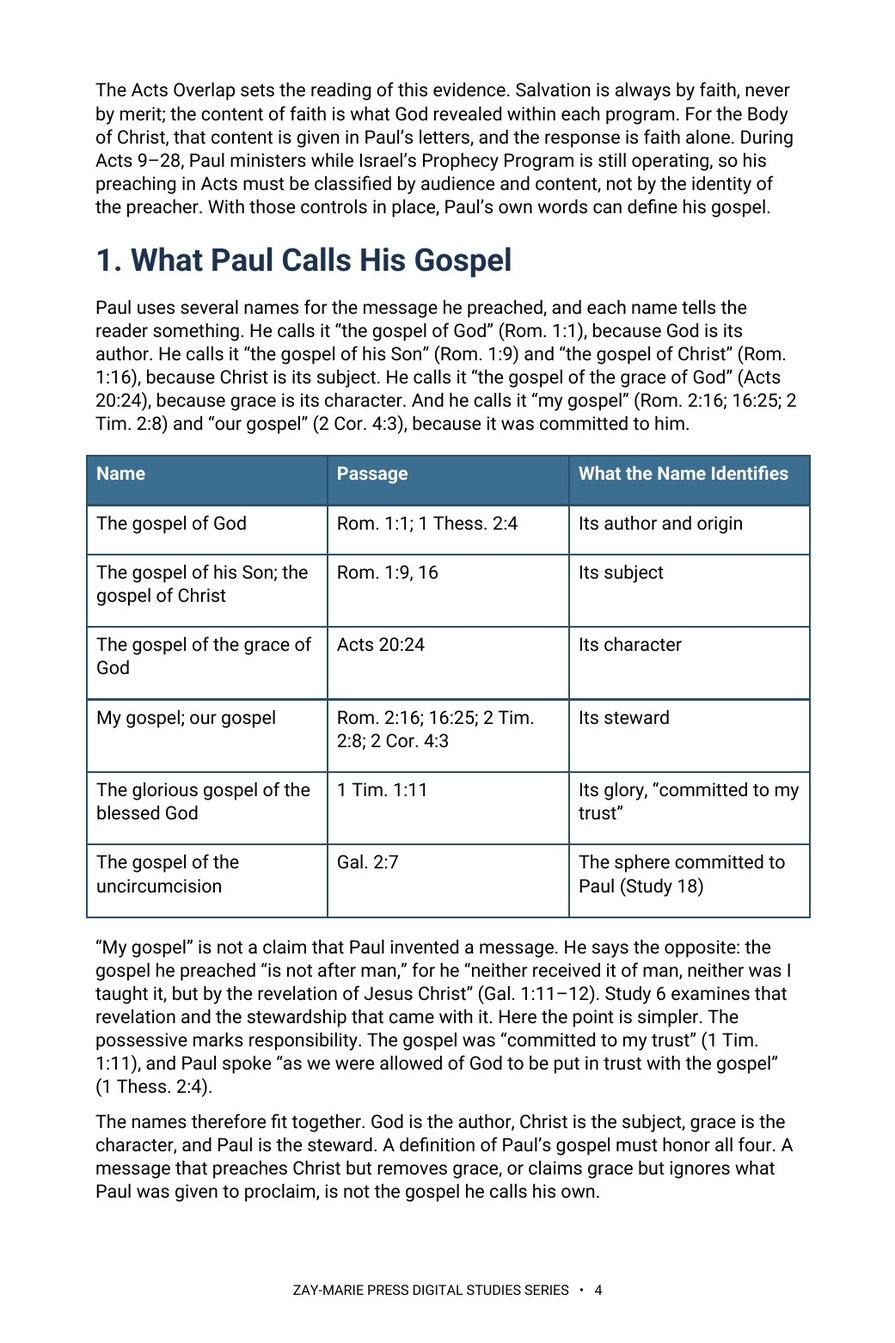
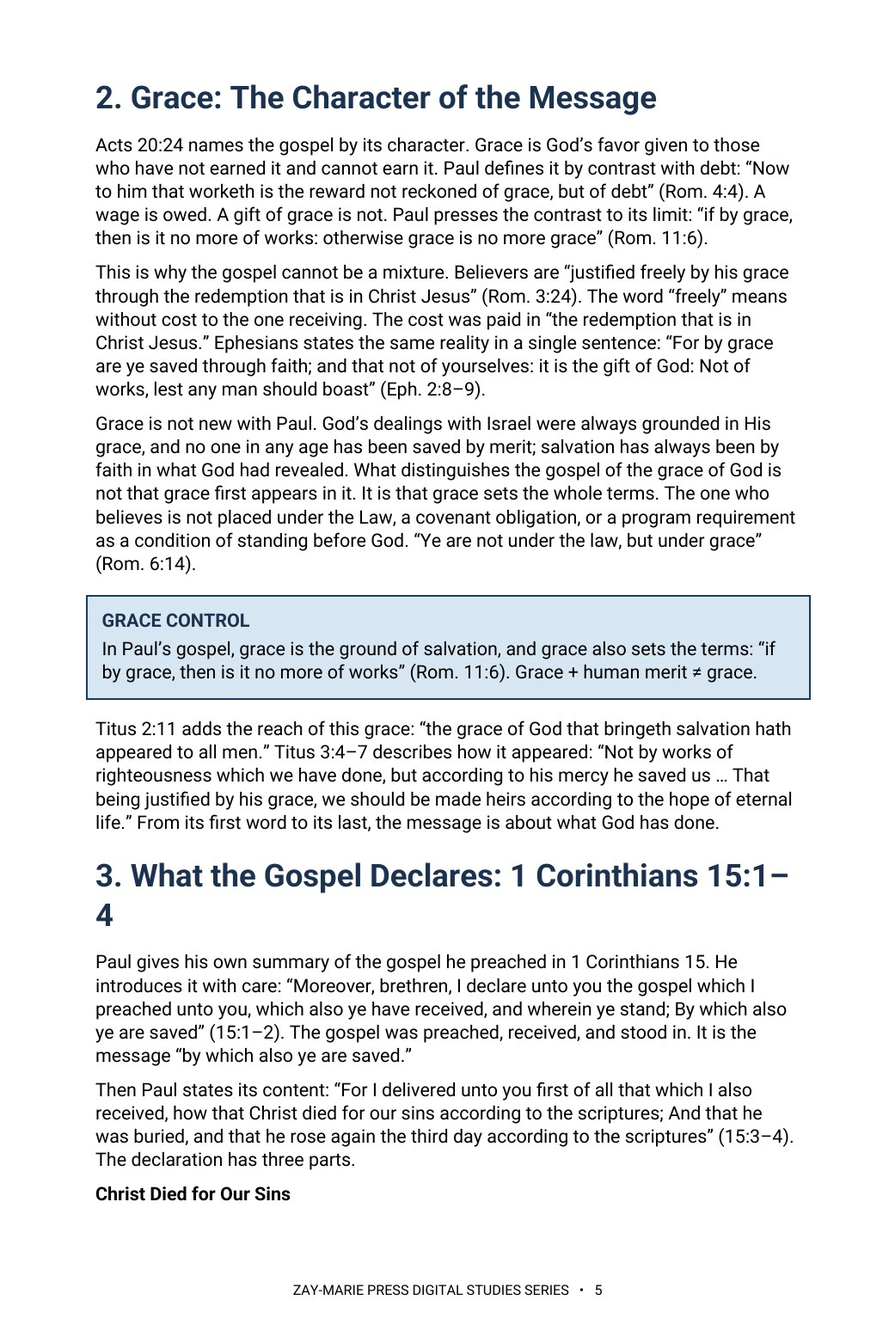
Study 43: 'ground of salvation' wording scoped to Paul's gospel (preview 4 re-rendered); Study 50 page copy; trackers
Claude-Session: https://claude.ai/code/session_01HC7bs9KYP2scp4hCL6DkTp

Changed region(s): [[0.0922, 0.0615, 0.9222, 0.8912]]

diff --git a/study-50-election.html b/study-50-election.html
@@ -1,4 +1,4 @@
 <!doctype html>
 <html lang="en"><head><meta charset="utf-8"><meta name="viewport" content="width=device-width,initial-scale=1"><title>Election | Zay-Marie Press</title><meta name="description" content="Scripture calls Israel “chosen” and tells the Body of Christ it was “chosen . . . before the foundation of the world.” Distinguish Israel's national election from the Body's election in Christ, and avoid merging or over-extending either one. Preview Study 50 from Zay-Marie Press."><link rel="stylesheet" href="styles.css?v=20260921-4"><link rel="icon" type="image/png" href="assets/zay-marie-press-favicon.png"><style>
 .study-detail-page{background:#fff;color:#252525}.detail-hero{background:linear-gradient(135deg,#f8f5ec,#e3ece2);padding:58px 0}.detail-hero-grid{display:grid;grid-template-columns:minmax(250px,.72fr) minmax(0,1.28fr);gap:58px;align-items:center}.detail-cover{max-width:390px;margin:auto}.detail-cover img{display:block;width:100%;height:auto;box-shadow:0 14px 36px rgba(8,45,69,.18)}.detail-hero h1{font-size:clamp(2.7rem,5vw,4.7rem);line-height:1.02;margin:8px 0 10px;color:#143823}.detail-subtitle{font-family:Georgia,serif;font-size:1.35rem;font-weight:700;color:#082d45;margin:0 0 7px}.detail-kicker{font-family:Georgia,serif;font-style:italic;font-size:1.05rem;color:#4a4a44;margin:0 0 22px}.detail-copy{font-size:1.08rem;line-height:1.65;max-width:760px}.detail-buyline{display:flex;align-items:center;gap:18px;flex-wrap:wrap;margin-top:25px}.detail-price{font-family:Georgia,serif;font-size:2rem;font-weight:700;color:#143823}.detail-format,.preview-card .page-no{font-family:Arial,sans-serif;font-size:.76rem;font-weight:700;letter-spacing:.1em;text-transform:uppercase;color:#176b3a}.detail-button{display:inline-block;background:#176b3a;color:#fff;padding:13px 22px;font-family:Arial,sans-serif;font-size:.8rem;font-weight:700;letter-spacing:.07em;text-transform:uppercase}.detail-button.pending{opacity:.72;cursor:default}.detail-section{padding:66px 0}.detail-section.soft{background:#f6f7f2}.detail-section.cream{background:#faf8f2}.detail-section h2{color:#143823;margin:6px 0 18px;font-size:clamp(2rem,3.4vw,3rem)}.detail-section .lead{max-width:920px;font-size:1.1rem;line-height:1.62}.study-distinction{max-width:920px;margin-top:28px;margin-bottom:28px;padding:26px 28px;background:#fff;border:1px solid #d8d1bf;border-left:4px solid #b8871c}.study-distinction h3{margin:0 0 10px;color:#143823}.study-distinction p{margin:0 0 14px;line-height:1.62}.study-distinction a{font-family:Arial,sans-serif;font-weight:700;color:#176b3a;text-decoration:none}.study-points{display:grid;grid-template-columns:repeat(3,1fr);gap:18px;margin-top:28px;margin-bottom:28px}.study-point,.scripture-card,.preview-card,.include-item{background:#fff;border:1px solid var(--line);text-align:left}.study-point{border-top:3px solid #176b3a;padding:22px}.study-point h3{color:#143823;margin:0 0 8px;font-size:1.2rem}.study-point p,.scripture-card p,.preview-card p,.include-item p{margin:0;line-height:1.55}.scripture-grid{display:grid;grid-template-columns:repeat(4,1fr);gap:14px;margin-top:24px;margin-bottom:24px}.scripture-card{padding:22px 20px;color:#143823}.scripture-card h3{margin:0 0 9px;font-family:Georgia,serif;font-size:1rem;line-height:1.35}.scripture-card p{font-size:.94rem;color:#45453f}.excerpt{max-width:900px;margin:28px auto;border-left:4px solid #b8871c;padding:10px 0 10px 28px}.excerpt blockquote{font-family:Georgia,serif;font-size:clamp(1.45rem,2.5vw,2rem);line-height:1.45;color:#143823;margin:0 0 16px}.excerpt p{line-height:1.6;margin:0}.preview-grid{display:grid;grid-template-columns:repeat(3,1fr);gap:20px;margin-top:28px;margin-bottom:28px}.preview-card{padding:18px;min-height:210px;box-shadow:0 7px 20px rgba(20,40,25,.05)}.preview-image-link{display:block;margin:0 0 18px}.preview-image-link img{display:block;width:100%;height:auto;border:1px solid #d8d1bf;box-shadow:0 8px 22px rgba(20,40,25,.1);transition:transform .18s ease,box-shadow .18s ease}.preview-image-link:hover img{transform:translateY(-2px);box-shadow:0 11px 28px rgba(20,40,25,.16)}.preview-card h3{color:#143823;margin:8px 0 10px}.preview-instruction{margin:10px 0 0;font-family:Arial,sans-serif;font-size:.78rem;letter-spacing:.04em;color:#5b5b55}.includes-grid{display:grid;grid-template-columns:repeat(4,1fr);gap:14px;margin-top:26px}.include-item{padding:22px 20px;color:#143823}.include-item h3{margin:0 0 9px;font-family:Arial,sans-serif;font-size:.86rem;line-height:1.35;letter-spacing:.02em}.include-item p{font-size:.94rem;color:#45453f}.final-buy{background:#082d45;color:#fff;border-top:4px solid #b8871c;padding:42px 48px;display:grid;grid-template-columns:1fr auto;gap:36px;align-items:center}.final-buy .eyebrow,.final-buy h2,.final-buy .detail-price{color:#fff}.final-buy h2{margin:7px 0 6px}.final-buy p{margin:0}.final-offer{text-align:center}.back-link{display:inline-block;margin-top:18px;color:#143823;font-family:Arial,sans-serif;font-weight:700;text-decoration:none}.preview-lightbox{position:fixed;inset:0;z-index:10000;display:none;align-items:flex-start;justify-content:center;background:rgba(8,22,16,.88);padding:24px;overflow:auto}.preview-lightbox.open{display:flex}.preview-lightbox img{display:block;width:auto;height:auto;max-width:none;box-shadow:0 18px 55px rgba(0,0,0,.4);background:#fff}.preview-lightbox-close{position:fixed;top:18px;right:24px;z-index:10001;width:46px;height:46px;border:1px solid rgba(255,255,255,.65);border-radius:50%;background:rgba(0,0,0,.55);color:#fff;font:32px/1 Arial,sans-serif;cursor:pointer}@media(max-width:900px){.detail-hero-grid{grid-template-columns:1fr;gap:34px}.detail-cover{max-width:330px}.study-points{grid-template-columns:repeat(2,1fr)}.scripture-grid,.includes-grid{grid-template-columns:repeat(2,1fr)}.preview-grid,.final-buy{grid-template-columns:1fr}.final-offer{text-align:left}}@media(max-width:560px){.detail-hero{padding:42px 0}.detail-section{padding:50px 0}.study-points,.scripture-grid,.includes-grid{grid-template-columns:1fr}.final-buy{padding:32px 24px}.detail-buyline{align-items:flex-start;flex-direction:column;gap:8px}.preview-lightbox{padding:58px 10px 24px}.preview-lightbox img{width:100%;max-width:100%;height:auto}} .detail-hero h1{font-size:clamp(2.1rem,4.2vw,3.7rem);line-height:1.08}</style></head><body class="study-detail-page">
-<header class="site-header"><div class="wrap nav"><a class="logo" href="index.html" aria-label="Zay-Marie Press home"><img src="assets/zay-marie-press-logo-hq.png" alt="Zay-Marie Press" width="420" height="238"></a><button class="menu-toggle" type="button" aria-expanded="false" aria-controls="primary-nav">MENU</button><nav aria-label="Primary navigation" class="primary-nav" id="primary-nav"><a href="index.html">HOME</a><a href="books.html">BOOKS</a><a href="series.html">SERIES</a><a class="active" aria-current="page" href="digital-studies.html">DIGITAL STUDIES</a><a href="biblical-hermeneutics-course.html">COURSE</a><a href="about.html">ABOUT</a><a href="resources.html">RESOURCES</a><a href="contact.html">CONTACT</a></nav></div></header><main><section class="detail-hero"><div class="wrap detail-hero-grid"><div class="detail-cover"><picture><source srcset="assets/study-50-cover.webp" type="image/webp"><img src="assets/study-50-cover.jpg" alt="Election — Study 50 cover"></picture></div><div><div class="eyebrow">STUDY 50 · DIGITAL STUDY</div><h1>Election</h1><p class="detail-subtitle">Israel's National Election and the Body's Election in Christ</p><p class="detail-kicker">A Biblical Examination of Two Distinct Elections Under the Prophecy and Mystery Programs</p><p class="detail-copy">Scripture calls Israel "chosen" (Deuteronomy 7:6), and it tells the Body of Christ that God "hath chosen us in him before the foundation of the world" (Ephesians 1:4). The same English word — and largely the same underlying vocabulary of choosing — describes two different companies, in two different settings, on two different grounds, unto two different destinies. Left unexamined, that single shared word invites two opposite mistakes.</p><p class="detail-copy">This study traces Israel's national election from Deuteronomy 7 through Romans 9–11's corporate argument and Jeremiah 31's guarantee of the nation's future, and the Body's election in Christ from Ephesians 1's "before the foundation of the world" through Romans 8's unbroken chain of divine action. It tests the passage most likely to be misread alongside them — 1 Peter 1:1–2 — and names the two opposite errors a careful reader must avoid on either side.</p><div class="detail-buyline"><span class="detail-price">$5.99</span><span class="detail-format">Digital PDF · 20 Pages</span><span class="detail-button pending" aria-disabled="true">Checkout Coming Soon</span></div></div></div></section><section class="detail-section"><div class="wrap"><div class="eyebrow">ABOUT THIS STUDY</div><h2>Two Distinct Elections, Read on Their Own Terms</h2><p class="lead">Scripture applies its vocabulary of choosing to a nation (Deuteronomy 7:6–8), to a believing remnant within that nation (Romans 11:5), and to the Body of Christ (Ephesians 1:4). The word itself only ever tells the reader that a choice has been made — it does not say who was chosen, on what basis, at what point, or unto what destiny. Those four questions must be answered from each passage's own setting. Asked consistently, they keep Israel's national election and the Body's election in Christ distinct without denying that both are, in the fullest sense, God's own sovereign elections.</p><p class="lead">This is not a general study of Israel's remnant, which Study 9 traces in its own right, nor of the judicial suspension that presently governs Israel's corporate unbelief, which Study 21 examines fully, nor of the broad Israel–Body distinction itself, which Study 4 establishes across every point of contrast. Its task is narrower: to ask, of every election passage in view, who is the object of the choice, on what basis, at what point, and unto what end — and to test that method against the one passage most likely to blur the two elections together, 1 Peter 1:1–2.</p><div class="study-distinction"><h3>How These Studies Relate</h3><p>Study 50 traces the two elections Scripture names — Israel's national election and the Body's election in Christ — and the discipline that keeps a shared word from becoming a shared doctrine.</p><p><a href="study-09-the-remnant.html">Study 9 — The Remnant</a> Compare the corporate, national election traced here with the narrower "election of grace" this study locates within it — an individual outworking, not a separate election.</p><p><a href="study-21-israels-judicial-blinding.html">Study 21 — Israel's Judicial Blinding</a> See the national judicial suspension examined in full — the present, corporate condition this study calls on to show why Israel's unbelief never revokes her ongoing election.</p><p><a href="study-04-israel-and-the-body-of-christ.html">Study 4 — Israel and the Body of Christ</a> Read the broad Israel–Body distinction in origin, covenant, and destiny that this study's narrower question about election depends on throughout.</p><p class="connection-guide-link"><a href="study-connections.html#study-50">Explore the full connection guide for Study 50 →</a></p></div><div class="eyebrow">WHAT YOU'LL STUDY</div><h2>Trace the Object, the Basis, and the Destiny of Each Election</h2><div class="study-points"><div class="study-point"><h3>The Four Questions</h3><p>Learn the four questions — object, basis, point of choice and destiny — this study puts to every election passage, and test why a shared word does not by itself settle which choice a passage describes.</p></div><div class="study-point"><h3>Reading Deuteronomy 7 and Romans 9–11</h3><p>Trace the reason Deuteronomy 7:6–8 gives for Israel's choice, how Romans 9:6–13 uses Isaac and Jacob, and what Paul says about gifts and calling in Romans 11:28–29.</p></div><div class="study-point"><h3>The “Election of Grace”</h3><p>Follow the phrase in Romans 11:1–7, noting what verse 6 says about works and grace, and test how it relates to the passages on the nation.</p></div><div class="study-point"><h3>Ephesians 1 on Its Own Terms</h3><p>Read Ephesians 1:3–6 and 1:11–12 for where, when and in whom the choice is placed, and note which words the text uses of descent, covenant and inheritance.</p></div><div class="study-point"><h3>Comparing the Passages</h3><p>Set the passages side by side on object, basis, point of choice and destiny, marking where the text states the same ground (Deuteronomy 7:7; Ephesians 2:8–9) and where it does not.</p></div><div class="study-point"><h3>The Discipline of Audience</h3><p>Read 1 Peter 1:1–2 from its own address, and weigh what Romans 9–11 was written to answer before pressing it into a wider debate.</p></div></div><div class="eyebrow">KEY SCRIPTURES</div><h2>Examine the Passages for Yourself</h2><div class="scripture-grid"><div class="scripture-card"><h3>Deuteronomy 7:6–8</h3><p>Israel chosen not for size or merit, but for God's own love and His oath to the fathers.</p></div><div class="scripture-card"><h3>Romans 9:6–13</h3><p>Isaac and Jacob, and the question Paul is answering in the chapter's opening verses.</p></div><div class="scripture-card"><h3>Romans 11:28–29</h3><p>Beloved for the fathers' sakes — the gifts and calling of God are without repentance.</p></div><div class="scripture-card"><h3>Ephesians 1:3–6</h3><p>Chosen in Him before the foundation of the world — read who is “us,” and where and when the choice is placed.</p></div><div class="scripture-card"><h3>Ephesians 1:11–12</h3><p>Predestinated according to His purpose, obtained by those who first trusted in Christ.</p></div><div class="scripture-card"><h3>Romans 8:28–30</h3><p>The unbroken chain from foreknowledge to glory — every verb belongs to God.</p></div><div class="scripture-card"><h3>2 Thessalonians 2:13–14</h3><p>Chosen to salvation through belief of the truth, called by the gospel Paul preaches.</p></div><div class="scripture-card"><h3>1 Peter 1:1–2</h3><p>"Elect according to foreknowledge" — read the letter's own address, “strangers scattered,” before deciding what the word names.</p></div></div><div class="eyebrow">FROM THE STUDY</div><h2>The Word Is Not the Test</h2><div class="excerpt"><blockquote>"According as he hath chosen us in him before the foundation of the world, that we should be holy and without blame before him in love" (Ephesians 1:4).</blockquote><p>Paul locates this election "in him," before time began — not in a family, not in a nation, not in a covenant sworn within history. Israel's own election, sworn to Abraham's line, is no less real for being different; it is simply not this one. The single word "chosen" is not the test. Where, when, and unto what a choice was made — asked of each passage on its own terms — is.</p></div><div class="eyebrow">A LOOK INSIDE</div><h2>Preview the Study Before You Purchase</h2><p class="preview-instruction">Click any page to enlarge it for reading.</p><div class="preview-grid"><div class="preview-card"><a class="preview-image-link" data-preview-lightbox href="assets/study-50-page-2.jpg"><img src="assets/study-50-page-2.jpg" alt="Study 50 table of contents"></a><div class="page-no">Page 2</div><h3>Table of Contents</h3><p>See the study's full structure and scope at a glance.</p></div><div class="preview-card"><a class="preview-image-link" data-preview-lightbox href="assets/study-50-page-3.jpg"><img src="assets/study-50-page-3.jpg" alt="Study 50 page 3: what you will learn, study goal, and study outline"></a><div class="page-no">Page 3</div><h3>What You Will Learn</h3><p>See the study's goal, outline, and the question it sets out to answer.</p></div><div class="preview-card"><a class="preview-image-link" data-preview-lightbox href="assets/study-50-page-5.jpg"><img src="assets/study-50-page-5.jpg" alt="Study 50 page 5: Deuteronomy 7 and Romans 9 in KJV wording, with commentary"></a><div class="page-no">Page 5</div><h3>Deuteronomy 7 and Romans 9</h3><p>Read the KJV text of Deuteronomy 7:6–8 beside the study's commentary on Romans 9:6–13.</p></div></div><div class="eyebrow">WHAT'S INCLUDED</div><h2>A Focused Study Built for<br>Understanding and Teaching</h2><div class="includes-grid"><div class="include-item"><h3>19-Page In-Depth Biblical Study</h3><p>A careful study of Israel's national election and the Body's election in Christ, grounded in Deuteronomy, Romans, Ephesians, and 1 Peter.</p></div><div class="include-item"><h3>6 Core Teaching Sections</h3><p>Progress from the shared vocabulary of choosing through both elections to the two opposite errors a careful reader must avoid.</p></div><div class="include-item"><h3>Key Distinctions to Retain</h3><p>Keep the object, basis, covenant status, and destiny of each election clear.</p></div><div class="include-item"><h3>Review and Discussion Questions</h3><p>Test the study's distinctions concerning basis, timing, and destiny.</p></div><div class="include-item"><h3>Teaching Outline</h3><p>A structured framework for teaching both elections with precision.</p></div><div class="include-item"><h3>Guided Further Study</h3><p>Return to Israel's election, the Body's election, and the discipline of audience, each traced further with directed questions.</p></div><div class="include-item"><h3>Scripture-Tracing Exercise</h3><p>Trace the study's key passages across the Law, the Prophets, the Gospels, and Paul's letters in their own context.</p></div><div class="include-item"><h3>Final Synthesis Exercise</h3><p>Bring the evidence together in one coherent, Scripture-based explanation.</p></div></div><div class="final-buy"><div><div class="eyebrow">STUDY 50 · DIGITAL STUDY</div><h2>Election</h2><p>20-page digital PDF · For personal use</p></div><div class="final-offer"><div class="detail-price">$5.99</div><span class="detail-button pending" aria-disabled="true">Checkout Coming Soon</span></div></div><a class="back-link" href="digital-studies.html">← Back to All Digital Studies</a></div></section><section class="study-method-course-bridge"><div class="wrap"><div class="study-method-course-panel"><div><div class="eyebrow">BUILD THE INTERPRETIVE METHOD</div><h2>Want More Than a Focused Study?</h2><p>Digital Studies examine particular biblical subjects and difficult passages. The 40-lesson Biblical Hermeneutics course teaches a complete, repeatable method for establishing meaning in context, determining proper assignment, and making responsible application.</p></div><a class="btn btn-primary" href="biblical-hermeneutics-course.html">BIBLICAL HERMENEUTICS COURSE</a></div></div></section></main><div class="preview-lightbox" id="preview-lightbox" role="dialog" aria-modal="true" aria-label="Expanded study preview"><button class="preview-lightbox-close" type="button" aria-label="Close preview">×</button><img id="preview-lightbox-image" alt=""></div><footer class="site-footer"><div class="wrap footer-grid"><div class="footer-about"><h3>Zay-Marie Press</h3><p class="footer-tagline"><em>Where the Bible Means What It Says.</em></p><p>Zay-Marie Press is a Christian theological publisher dedicated to producing doctrinally precise, carefully structured biblical resources that equip pastors, teachers, and serious students with clarity, depth, and Scripture-anchored truth.</p><p><a href="https://zaymariepress.com">zaymariepress.com</a><br><a href="mailto:info@zaymariepress.com">info@zaymariepress.com</a></p></div><div class="footer-column"><h3>Explore</h3><div class="footer-links-stacked"><a href="books.html">Books</a><br><a href="series.html">Series</a><br><a href="biblical-hermeneutics-course.html">Course</a><br><a href="digital-studies.html">Digital Studies</a><br><a href="resources.html">Resources</a><br><a href="bible-book-summaries.html">Bible Book Summaries</a><br><a href="doctrinal-packets.html">Doctrinal Packets</a><br><a href="historical-drift.html">Historical Drift</a><br><a href="about.html">About</a><br><a href="contact.html">Contact</a></div></div><div class="footer-column"><h3>Reader Support</h3><div class="footer-links-stacked"><a href="reader-support.html#faq">FAQ</a><br><a href="reader-support.html#shipping-returns">Shipping &amp; Returns</a><br><a href="reader-support.html#digital-downloads">Digital Downloads</a><br><a href="reader-support.html#contact-support">Contact Support</a></div></div><div class="footer-column"><h3>Acts Overlap</h3><p><strong>Acts Overlap Theology Series</strong></p><p><em>Two Distinct Streams. One Overlap.</em></p><p><a href="series.html">Series Overview</a></p></div></div><div class="wrap footer-bottom">© 2026 Zay-Marie Press. All rights reserved.</div></footer><script src="site.js"></script><script>const lightbox=document.getElementById('preview-lightbox'),lightboxImage=document.getElementById('preview-lightbox-image'),closeLightbox=()=>{lightbox.classList.remove('open');lightboxImage.src='';};document.querySelectorAll('[data-preview-lightbox]').forEach(link=>link.addEventListener('click',event=>{event.preventDefault();lightboxImage.src=link.href;lightboxImage.alt=link.querySelector('img').alt;lightbox.classList.add('open');}));document.querySelector('.preview-lightbox-close').addEventListener('click',closeLightbox);lightbox.addEventListener('click',event=>{if(event.target===lightbox)closeLightbox();});document.addEventListener('keydown',event=>{if(event.key==='Escape')closeLightbox();});</script></body></html>
+<header class="site-header"><div class="wrap nav"><a class="logo" href="index.html" aria-label="Zay-Marie Press home"><img src="assets/zay-marie-press-logo-hq.png" alt="Zay-Marie Press" width="420" height="238"></a><button class="menu-toggle" type="button" aria-expanded="false" aria-controls="primary-nav">MENU</button><nav aria-label="Primary navigation" class="primary-nav" id="primary-nav"><a href="index.html">HOME</a><a href="books.html">BOOKS</a><a href="series.html">SERIES</a><a class="active" aria-current="page" href="digital-studies.html">DIGITAL STUDIES</a><a href="biblical-hermeneutics-course.html">COURSE</a><a href="about.html">ABOUT</a><a href="resources.html">RESOURCES</a><a href="contact.html">CONTACT</a></nav></div></header><main><section class="detail-hero"><div class="wrap detail-hero-grid"><div class="detail-cover"><picture><source srcset="assets/study-50-cover.webp" type="image/webp"><img src="assets/study-50-cover.jpg" alt="Election — Study 50 cover"></picture></div><div><div class="eyebrow">STUDY 50 · DIGITAL STUDY</div><h1>Election</h1><p class="detail-subtitle">Israel's National Election and the Body's Election in Christ</p><p class="detail-kicker">A Biblical Examination of Two Distinct Elections Under the Prophecy and Mystery Programs</p><p class="detail-copy">Scripture calls Israel "chosen" (Deuteronomy 7:6), and it tells the Body of Christ that God "hath chosen us in him before the foundation of the world" (Ephesians 1:4). The same English word — and largely the same underlying vocabulary of choosing — describes two different companies, in two different settings, on two different grounds, unto two different destinies. Left unexamined, that single shared word invites two opposite mistakes.</p><p class="detail-copy">This study traces Israel's national election from Deuteronomy 7 through Romans 9–11's corporate argument and Jeremiah 31's guarantee of the nation's future, and the Body's election in Christ from Ephesians 1's "before the foundation of the world" through Romans 8's unbroken chain of divine action. It tests the passage most likely to be misread alongside them — 1 Peter 1:1–2 — and names the two opposite errors a careful reader must avoid on either side.</p><div class="detail-buyline"><span class="detail-price">$5.99</span><span class="detail-format">Digital PDF · 20 Pages</span><span class="detail-button pending" aria-disabled="true">Checkout Coming Soon</span></div></div></div></section><section class="detail-section"><div class="wrap"><div class="eyebrow">ABOUT THIS STUDY</div><h2>Two Distinct Elections, Read on Their Own Terms</h2><p class="lead">Scripture applies its vocabulary of choosing to a nation (Deuteronomy 7:6–8), to a believing remnant within that nation (Romans 11:5), and to the Body of Christ (Ephesians 1:4). The word itself only ever tells the reader that a choice has been made — it does not say who was chosen, on what basis, at what point, or unto what destiny. Those four questions must be answered from each passage's own setting. Asked consistently, they keep Israel's national election and the Body's election in Christ distinct without denying that both are, in the fullest sense, God's own sovereign elections.</p><p class="lead">This is not a general study of Israel's remnant, which Study 9 traces in its own right, nor of the judicial suspension that presently governs Israel's corporate unbelief, which Study 21 examines fully, nor of the broad Israel–Body distinction itself, which Study 4 establishes across every point of contrast. Its task is narrower: to ask, of every election passage in view, who is the object of the choice, on what basis, at what point, and unto what end — and to test that method against the one passage most likely to blur the two elections together, 1 Peter 1:1–2.</p><div class="study-distinction"><h3>How These Studies Relate</h3><p>Study 50 traces the two elections Scripture names — Israel's national election and the Body's election in Christ — and the discipline that keeps a shared word from becoming a shared doctrine.</p><p><a href="study-09-the-remnant.html">Study 9 — The Remnant</a> Compare the corporate, national election traced here with the narrower "election of grace" this study locates within it — an individual outworking, not a separate election.</p><p><a href="study-21-israels-judicial-blinding.html">Study 21 — Israel's Judicial Blinding</a> See the national judicial suspension examined in full — the present, corporate condition this study calls on to show why Israel's unbelief never revokes her ongoing election.</p><p><a href="study-04-israel-and-the-body-of-christ.html">Study 4 — Israel and the Body of Christ</a> Read the broad Israel–Body distinction in origin, covenant, and destiny that this study's narrower question about election depends on throughout.</p><p class="connection-guide-link"><a href="study-connections.html#study-50">Explore the full connection guide for Study 50 →</a></p></div><div class="eyebrow">WHAT YOU'LL STUDY</div><h2>Trace the Object, the Basis, and the Destiny of Each Election</h2><div class="study-points"><div class="study-point"><h3>The Four Questions</h3><p>Learn the four questions — object, basis, point of choice and destiny — this study puts to every election passage, and test why a shared word does not by itself settle which choice a passage describes.</p></div><div class="study-point"><h3>Reading Deuteronomy 7 and Romans 9–11</h3><p>Trace the reason Deuteronomy 7:6–8 gives for Israel's choice, how Romans 9:6–13 uses Isaac and Jacob, and what Paul says about gifts and calling in Romans 11:28–29.</p></div><div class="study-point"><h3>The “Election of Grace”</h3><p>Follow the phrase in Romans 11:1–7, noting what verse 6 says about works and grace, and test how it relates to the passages on the nation.</p></div><div class="study-point"><h3>Ephesians 1 on Its Own Terms</h3><p>Read Ephesians 1:3–6 and 1:11–12 for where, when and in whom the choice is placed, and note which words the text uses of descent, covenant and inheritance.</p></div><div class="study-point"><h3>Comparing the Passages</h3><p>Set the passages side by side on object, basis, point of choice and destiny, marking where the text names the basis of God’s choice (Deuteronomy 7:7; Ephesians 2:8–9) and where the passages differ.</p></div><div class="study-point"><h3>The Discipline of Audience</h3><p>Read 1 Peter 1:1–2 from its own address, and weigh what Romans 9–11 was written to answer before pressing it into a wider debate.</p></div></div><div class="eyebrow">KEY SCRIPTURES</div><h2>Examine the Passages for Yourself</h2><div class="scripture-grid"><div class="scripture-card"><h3>Deuteronomy 7:6–8</h3><p>Israel chosen not for size or merit, but for God's own love and His oath to the fathers.</p></div><div class="scripture-card"><h3>Romans 9:6–13</h3><p>Isaac and Jacob, and the question Paul is answering in the chapter's opening verses.</p></div><div class="scripture-card"><h3>Romans 11:28–29</h3><p>Beloved for the fathers' sakes — the gifts and calling of God are without repentance.</p></div><div class="scripture-card"><h3>Ephesians 1:3–6</h3><p>Chosen in Him before the foundation of the world — read who is “us,” and where and when the choice is placed.</p></div><div class="scripture-card"><h3>Ephesians 1:11–12</h3><p>Predestinated according to His purpose, obtained by those who first trusted in Christ.</p></div><div class="scripture-card"><h3>Romans 8:28–30</h3><p>The unbroken chain from foreknowledge to glory — every verb belongs to God.</p></div><div class="scripture-card"><h3>2 Thessalonians 2:13–14</h3><p>Chosen to salvation through belief of the truth, called by the gospel Paul preaches.</p></div><div class="scripture-card"><h3>1 Peter 1:1–2</h3><p>"Elect according to foreknowledge" — read the letter's own address, “strangers scattered,” before deciding what the word names.</p></div></div><div class="eyebrow">FROM THE STUDY</div><h2>The Word Is Not the Test</h2><div class="excerpt"><blockquote>"According as he hath chosen us in him before the foundation of the world, that we should be holy and without blame before him in love" (Ephesians 1:4).</blockquote><p>Paul locates this election "in him," before time began — not in a family, not in a nation, not in a covenant sworn within history. Israel's own election, sworn to Abraham's line, is no less real for being different; it is simply not this one. The single word "chosen" is not the test. Where, when, and unto what a choice was made — asked of each passage on its own terms — is.</p></div><div class="eyebrow">A LOOK INSIDE</div><h2>Preview the Study Before You Purchase</h2><p class="preview-instruction">Click any page to enlarge it for reading.</p><div class="preview-grid"><div class="preview-card"><a class="preview-image-link" data-preview-lightbox href="assets/study-50-page-2.jpg"><img src="assets/study-50-page-2.jpg" alt="Study 50 table of contents"></a><div class="page-no">Page 2</div><h3>Table of Contents</h3><p>See the study's full structure and scope at a glance.</p></div><div class="preview-card"><a class="preview-image-link" data-preview-lightbox href="assets/study-50-page-3.jpg"><img src="assets/study-50-page-3.jpg" alt="Study 50 page 3: what you will learn, study goal, and study outline"></a><div class="page-no">Page 3</div><h3>What You Will Learn</h3><p>See the study's goal, outline, and the question it sets out to answer.</p></div><div class="preview-card"><a class="preview-image-link" data-preview-lightbox href="assets/study-50-page-5.jpg"><img src="assets/study-50-page-5.jpg" alt="Study 50 page 5: Deuteronomy 7 and Romans 9 in KJV wording, with commentary"></a><div class="page-no">Page 5</div><h3>Deuteronomy 7 and Romans 9</h3><p>Read the KJV text of Deuteronomy 7:6–8 beside the study's commentary on Romans 9:6–13.</p></div></div><div class="eyebrow">WHAT'S INCLUDED</div><h2>A Focused Study Built for<br>Understanding and Teaching</h2><div class="includes-grid"><div class="include-item"><h3>19-Page In-Depth Biblical Study</h3><p>A careful study of Israel's national election and the Body's election in Christ, grounded in Deuteronomy, Romans, Ephesians, and 1 Peter.</p></div><div class="include-item"><h3>6 Core Teaching Sections</h3><p>Progress from the shared vocabulary of choosing through both elections to the two opposite errors a careful reader must avoid.</p></div><div class="include-item"><h3>Key Distinctions to Retain</h3><p>Keep the object, basis, covenant status, and destiny of each election clear.</p></div><div class="include-item"><h3>Review and Discussion Questions</h3><p>Test the study's distinctions concerning basis, timing, and destiny.</p></div><div class="include-item"><h3>Teaching Outline</h3><p>A structured framework for teaching both elections with precision.</p></div><div class="include-item"><h3>Guided Further Study</h3><p>Return to Israel's election, the Body's election, and the discipline of audience, each traced further with directed questions.</p></div><div class="include-item"><h3>Scripture-Tracing Exercise</h3><p>Trace the study's key passages across the Law, the Prophets, the Gospels, and Paul's letters in their own context.</p></div><div class="include-item"><h3>Final Synthesis Exercise</h3><p>Bring the evidence together in one coherent, Scripture-based explanation.</p></div></div><div class="final-buy"><div><div class="eyebrow">STUDY 50 · DIGITAL STUDY</div><h2>Election</h2><p>20-page digital PDF · For personal use</p></div><div class="final-offer"><div class="detail-price">$5.99</div><span class="detail-button pending" aria-disabled="true">Checkout Coming Soon</span></div></div><a class="back-link" href="digital-studies.html">← Back to All Digital Studies</a></div></section><section class="study-method-course-bridge"><div class="wrap"><div class="study-method-course-panel"><div><div class="eyebrow">BUILD THE INTERPRETIVE METHOD</div><h2>Want More Than a Focused Study?</h2><p>Digital Studies examine particular biblical subjects and difficult passages. The 40-lesson Biblical Hermeneutics course teaches a complete, repeatable method for establishing meaning in context, determining proper assignment, and making responsible application.</p></div><a class="btn btn-primary" href="biblical-hermeneutics-course.html">BIBLICAL HERMENEUTICS COURSE</a></div></div></section></main><div class="preview-lightbox" id="preview-lightbox" role="dialog" aria-modal="true" aria-label="Expanded study preview"><button class="preview-lightbox-close" type="button" aria-label="Close preview">×</button><img id="preview-lightbox-image" alt=""></div><footer class="site-footer"><div class="wrap footer-grid"><div class="footer-about"><h3>Zay-Marie Press</h3><p class="footer-tagline"><em>Where the Bible Means What It Says.</em></p><p>Zay-Marie Press is a Christian theological publisher dedicated to producing doctrinally precise, carefully structured biblical resources that equip pastors, teachers, and serious students with clarity, depth, and Scripture-anchored truth.</p><p><a href="https://zaymariepress.com">zaymariepress.com</a><br><a href="mailto:info@zaymariepress.com">info@zaymariepress.com</a></p></div><div class="footer-column"><h3>Explore</h3><div class="footer-links-stacked"><a href="books.html">Books</a><br><a href="series.html">Series</a><br><a href="biblical-hermeneutics-course.html">Course</a><br><a href="digital-studies.html">Digital Studies</a><br><a href="resources.html">Resources</a><br><a href="bible-book-summaries.html">Bible Book Summaries</a><br><a href="doctrinal-packets.html">Doctrinal Packets</a><br><a href="historical-drift.html">Historical Drift</a><br><a href="about.html">About</a><br><a href="contact.html">Contact</a></div></div><div class="footer-column"><h3>Reader Support</h3><div class="footer-links-stacked"><a href="reader-support.html#faq">FAQ</a><br><a href="reader-support.html#shipping-returns">Shipping &amp; Returns</a><br><a href="reader-support.html#digital-downloads">Digital Downloads</a><br><a href="reader-support.html#contact-support">Contact Support</a></div></div><div class="footer-column"><h3>Acts Overlap</h3><p><strong>Acts Overlap Theology Series</strong></p><p><em>Two Distinct Streams. One Overlap.</em></p><p><a href="series.html">Series Overview</a></p></div></div><div class="wrap footer-bottom">© 2026 Zay-Marie Press. All rights reserved.</div></footer><script src="site.js"></script><script>const lightbox=document.getElementById('preview-lightbox'),lightboxImage=document.getElementById('preview-lightbox-image'),closeLightbox=()=>{lightbox.classList.remove('open');lightboxImage.src='';};document.querySelectorAll('[data-preview-lightbox]').forEach(link=>link.addEventListener('click',event=>{event.preventDefault();lightboxImage.src=link.href;lightboxImage.alt=link.querySelector('img').alt;lightbox.classList.add('open');}));document.querySelector('.preview-lightbox-close').addEventListener('click',closeLightbox);lightbox.addEventListener('click',event=>{if(event.target===lightbox)closeLightbox();});document.addEventListener('keydown',event=>{if(event.key==='Escape')closeLightbox();});</script></body></html>

diff --git a/build-tools/studies/b43/ed43.py b/build-tools/studies/b43/ed43.py
@@ -5,4 +5,6 @@ def apply(els):
     rep(els,'When Israel reached its national judicial suspension at Acts 28, Paul declared','When Israel’s Prophecy Program was nationally suspended at Acts 28, Paul declared')
     rep(els,'That was national judicial suspension, not abolition and not a transfer; Israel’s promises stand.','That national suspension was not a cancellation, a transfer or an absorption. '+BND)
     rep(els,'That was a local turn, not Israel’s national judicial suspension;','That was a local turn, not the national suspension of Israel’s program;')
+    rep(els,'Grace is always the ground of salvation. In Paul’s gospel, grace also sets the terms:','In Paul’s gospel, grace is the ground of salvation, and grace also sets the terms:')
+    rep(els,' Grace is always the ground of salvation; in Paul’s gospel grace also sets the terms,',' In Paul’s gospel grace is the ground of salvation and also sets the terms,')
     return els

diff --git a/CLAUDE.md b/CLAUDE.md
@@ -26,7 +26,7 @@ These are kept in the repo at `controlling-documents/` and are the current versi
 - **`build-tools/`** — the study rebuild toolkit (scripts, per-study edit files, README), committed 2026-10-04 at the publisher's approval so the retrofit method and every per-study wording edit survive a session reset. Working tools only; the site does not use them. Not a rule.
 **`controlling-documents/Digital_Studies_Relationship_Map_v1.39.md`** — records each study's distinct subject, its related studies, the eight priced six-study collections, the Paul's Missionary Journeys cross-reference map, and the five primary catalog categories (currently version 1.39, covers Studies 1–71; update it as new studies publish, bump the version number, rename the file to match, and log the change in its own version-history table — mirroring the Master Standard's `_vX.Y` filename convention). Check a proposed topic against it before recommending or writing a new study. (2026-09-28: the file was missing from this repo despite this note referencing it; replaced from the publisher's copy and bumped v1.15→v1.25 in the same pass. If this note ever again points to a version not present under `controlling-documents/`, ask the publisher for a copy rather than proceeding without the check.)
 - **`controlling-documents/Digital_Studies_Category_Standard_v1.1.md`** — FINAL and binding (publisher, 2026-10-01): the rules for the five primary catalog categories (Foundations, Israel & Prophecy, Body of Christ, Passages, Doctrinal Themes), the ordered decision procedure for new studies, the precedents, all 71 fixed assignments, and the cover-label form for each category. Read it before placing any card or cover label. Do not ask the publisher where a study belongs; apply the procedure and state the result. Only the publisher changes a ruling; then bump this Standard's version and filename, re-letter the cover, and update the Relationship Map.
-- **`controlling-documents/Doctrinal_Upgrade_Retrofit_Plan_v1.151.md`** — working tracker for retrofitting Studies 1–59 to the 2026-10-02 doctrinal upgrade (Framework/PAM v1.1, Master Standard v1.40, Rules 7–17): withdrawn-wording search keys, impact tiers, waves and the per-study method. Read it before continuing the retrofit in any session; update status, bump the version and rename the file as work proceeds.
+- **`controlling-documents/Doctrinal_Upgrade_Retrofit_Plan_v1.152.md`** — working tracker for retrofitting Studies 1–59 to the 2026-10-02 doctrinal upgrade (Framework/PAM v1.1, Master Standard v1.40, Rules 7–17): withdrawn-wording search keys, impact tiers, waves and the per-study method. Read it before continuing the retrofit in any session; update status, bump the version and rename the file as work proceeds.
 - **`controlling-documents/Doctrinal_Packet_Standard_v0.3.md`** — Doctrinal Packet Standard (DRAFT; §7 approved). Governs the separate Doctrinal Packets product strand (5-page interpretive PDFs per Bible book — a print-friendly cover as page 1 plus 4 content pages, $2.99, KJV, pilot: Genesis, live at `packet-genesis.html`, hub `doctrinal-packets.html`; site pages say "5 Pages", cover styles live in `packets.css`, Old Testament blue and New Testament soft pale green, hub listed in Bible order). **Preview rule (publisher directive, 2026-09-29, packets only):** previews show about one page's worth in two cropped views (top of page 1 through the anchor texts; the chart section) — never the exegesis, architecture, Mystery contrast, logic chain, outline, or closing. Master Standard §16/§17 still govern Digital Studies. Bump the version and rename the file as the Standard is finalized.
 - **`controlling-documents/Preview_Page_Spoiler_Retrofit_Audit_v1.4.md`** — working tracker for the Studies 1–60 preview-page conclusion-spoiler retrofit (see the section below). Read it before continuing that audit in any session; update its status fields and changelog, bump the version, and rename the file to match as the audit proceeds — same `_vX.Y` convention as the other controlling documents. As of v1.1, the website-side half was DONE: all 60 studies' "What You'll Study" text was judged against the rule (methodology documented in the file) and 22 points across 11 studies were rewritten and pushed; an unrelated Study 22 content bug (Study 21's content had leaked into it) was also found and fixed. As of v1.2, the publisher supplied Studies 1–60's interior production PDFs and the interior-PDF half was also surveyed (read-only): 10 studies (37, 41, 45, 47, 48, 49, 51, 52, 53, 54) were found to have at least one interior "What You Will Learn" violation, 50 studies were confirmed compliant, and the orphaned `assets/study-45-sanctification-under-grace.docx` (removed from the repo per the publisher in v1.0) was confirmed word-for-word identical to Study 45's actual production interior PDF content. As of v1.3, the publisher supplied editable DOCX sources for all 10 violating studies; all 15 violating points were rewritten and approved, delivered as corrected final PDFs, and — along the way — a second defect was found and fixed (Studies 47 and 48's source DOCX still had an unintegrated cover placeholder despite both being long-published live with real covers; fixed by inserting the existing approved cover art). The website's "What You Will Learn" preview image (`study-NN-page-3.jpg`) was regenerated from the corrected content for all 10 studies and pushed to `main` (commit `cea1859`), verified against a fresh clone. **The website side of this audit is now fully compliant for all 60 studies.** Outstanding: the publisher's purchasable interior PDF files themselves have corrected versions delivered, but distribution to existing purchasers was decided by the publisher on 2026-09-29: silent swap of the files behind the existing downloads, no reissue notice (recorded in the v1.4 changelog entry; the product files are not in this repo).
 

diff --git a/controlling-documents/Digital_Studies_PAM_Audit_v1.246.md b/controlling-documents/Digital_Studies_PAM_Audit_v1.246.md
@@ -476,3 +476,4 @@ Study 15 PDF not yet supplied. Typography: none of Studies 2, 3, 6, 8 is in EB G
 - v1.243 (2026-10-04): Studies 58, 62, 63, 64 rebuilt together: typed numbering converted (Teaching Outline numbered with hanging indent; Study Outline bullets; Study 58 also WYWL lead-in and bullets, Study Summary bullets, Review numbered, v1.51 imprint); 'Use this framework' reworded to 'Use this outline'. Page counts: 58 now 20 (was 19), 62 now 19 (was 18), 63 stays 17, 64 now 16 (was 17); previews re-rendered (63 and 64 third preview page 5 -> 4). Studies 15, 29, 30 checked: their typed items are short single-line lead-ins and do not wrap; 30 was already conformed earlier today. Study 60 Review set as bullets still a publisher question (see Retrofit Plan v1.149).
 - v1.244 (2026-10-04): Study 60 rebuilt at 15 pages (unchanged): Review and Discussion Questions set as a real numbered list (were bullets) at the publisher's approval; v1.51 imprint, callouts and doctrine already conforming (see Retrofit Plan v1.150).
 - v1.245 (2026-10-04): typed-list cleanup: Study 30 rebuilt (18 pages, unchanged) with the three-step grace progression as a real numbered list and preview page 2 re-rendered; Studies 15 and 29 patched in their own DOCX only (hanging indent on the numbered bold lead-ins; no text change; 15 and 19 pages unchanged) and delivered as files, with their website previews left as they were because the live previews came from the publisher's own PDFs (see Retrofit Plan v1.151).
+- v1.246 (2026-10-04): see Retrofit Plan v1.152 (Study 43 two-line Rule 19 wording; Study 50 page copy).

diff --git a/controlling-documents/Doctrinal_Upgrade_Retrofit_Plan_v1.152.md b/controlling-documents/Doctrinal_Upgrade_Retrofit_Plan_v1.152.md
@@ -252,3 +252,4 @@ Working tracker for correcting published studies to the Framework/PAM v1.1, Mast
 - v1.149 (2026-10-04): batch rebuild of 58, 62, 63, 64 for typed numbering (see Audit v1.243); site.js 58:20, 62:19, 63:17, 64:16. Remaining open: Study 60 Review questions set as bullets (publisher decision).
 - v1.150 (2026-10-04): Study 60 Review questions numbered (publisher approved 2026-10-04); previews 2 and 3 re-rendered; site.js unchanged (60:15). Typed-numbering/Review-format list is now complete.
 - v1.151 (2026-10-04): items 15, 29, 30 handled (30 pushed; 15 and 29 patched DOCX/PDF delivered, site untouched).
+- v1.152 (2026-10-04): final withdrawn-wording scan of every built FINAL (55 studies) clean except Study 43 'Grace is always the ground of salvation' (two lines) — reworded to 'In Paul’s gospel, grace is the ground of salvation' (16 pp unchanged; preview 4 re-rendered); Study 50 page copy 'states the same ground' reworded. Body-context 'finished work' uses (6, 46, 54) stand.
